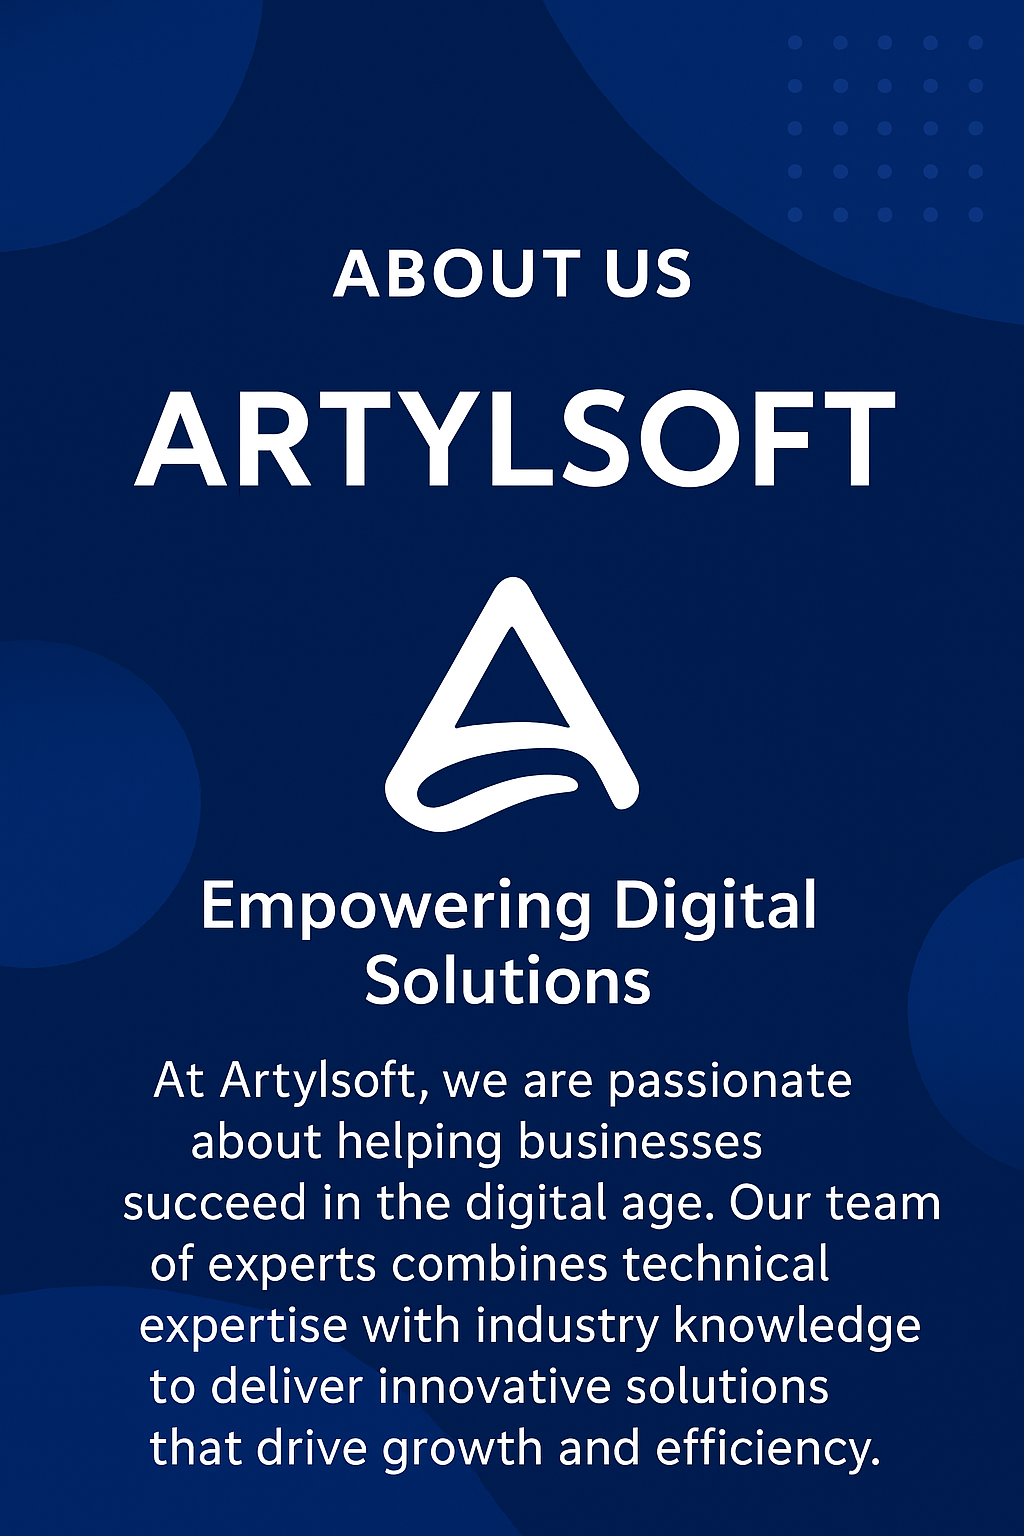
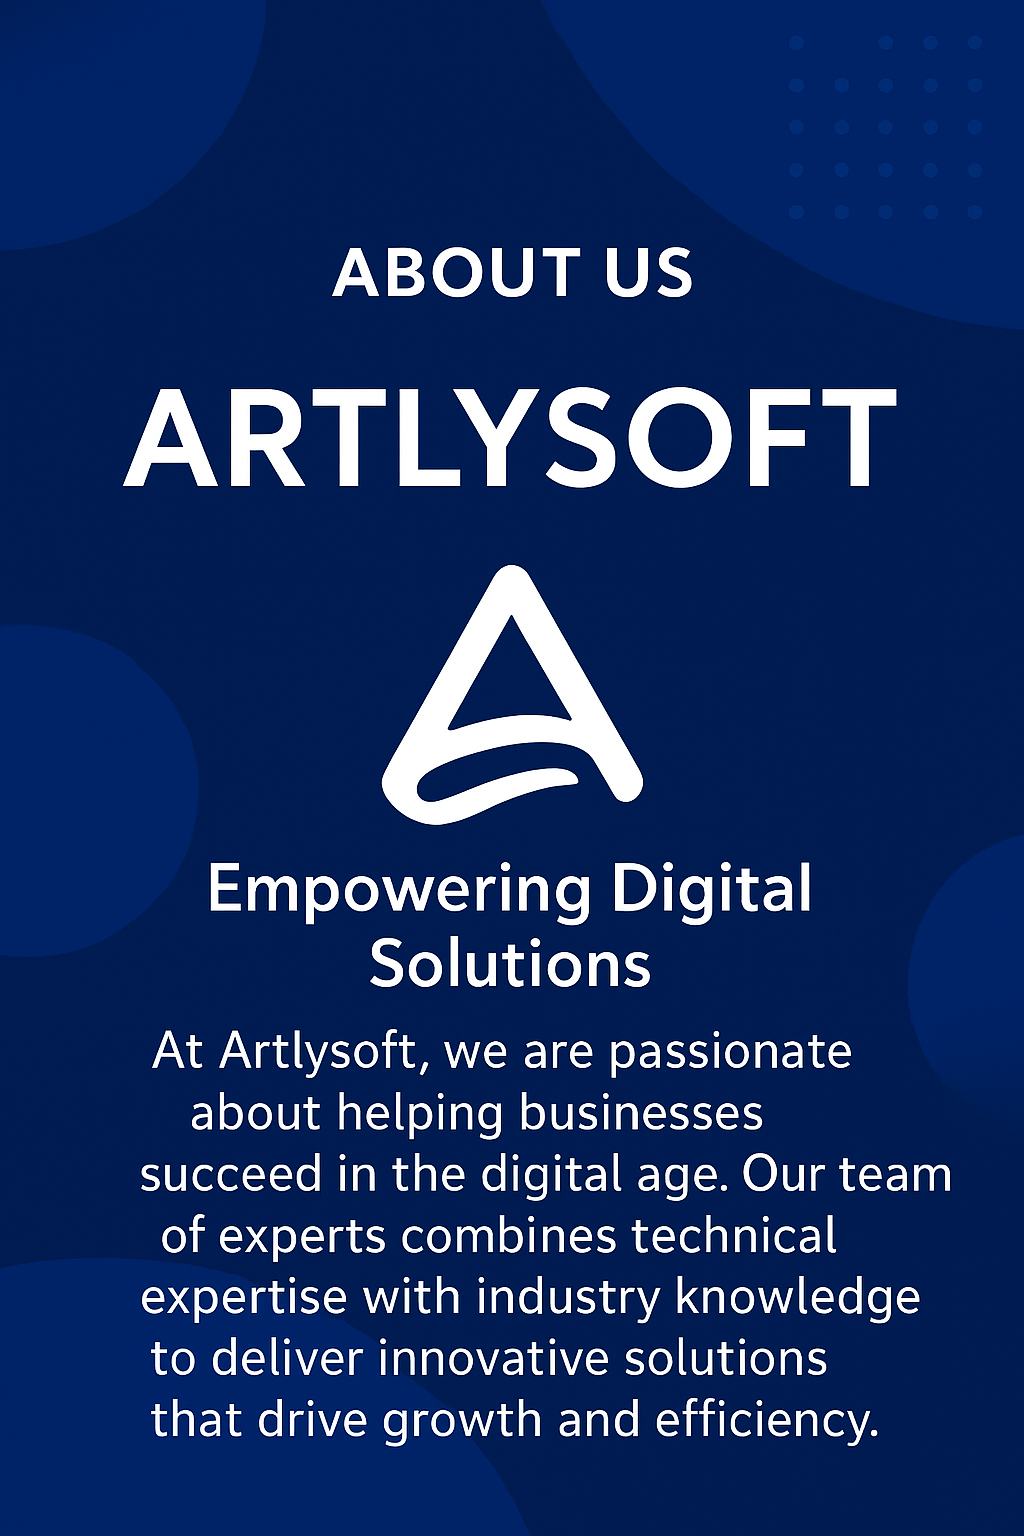
first commit

diff --git a/src/components/About.jsx b/src/components/About.jsx
@@ -48,7 +48,7 @@ const About = () => {
                 Transforming Businesses Through <span className="text-accent">Technology</span>
               </h3>
               <p className="lead mb-4 text-light-emphasis">
-                At Artylsoft, we are passionate about helping businesses succeed in the digital age. 
+                At Artlysoft, we are passionate about helping businesses succeed in the digital age. 
                 Our team of experts combines technical expertise with industry knowledge to deliver 
                 innovative solutions that drive growth and efficiency.
               </p>

diff --git a/src/components/Footer.jsx b/src/components/Footer.jsx
@@ -16,7 +16,7 @@ const Footer = () => {
       <Container>
         <Row className="mb-5">
           <Col md={3} data-aos="fade-up" data-aos-delay="0">
-            <h5 className="text-accent mb-3">About Artylsoft</h5>
+            <h5 className="text-accent mb-3">About Artlysoft</h5>
             <p className="small text-white-emphasis">
               Driving digital innovation through expert IT solutions. We specialize in web, mobile, and enterprise applications tailored to your needs.
             </p>

diff --git a/src/components/Navbar.jsx b/src/components/Navbar.jsx
@@ -37,7 +37,7 @@ const NavigationBar = () => {
             height="50" 
             className="d-inline-block align-top"
           />
-          <span className="fw-bold fs-4 text-dark mb-0">Artylsoft</span>
+          <span className="fw-bold fs-4 text-dark mb-0">Artlysoft</span>
         </Navbar.Brand>
         <Navbar.Toggle aria-controls="basic-navbar-nav" className="border-0">
           <span className="navbar-toggler-icon"></span>
